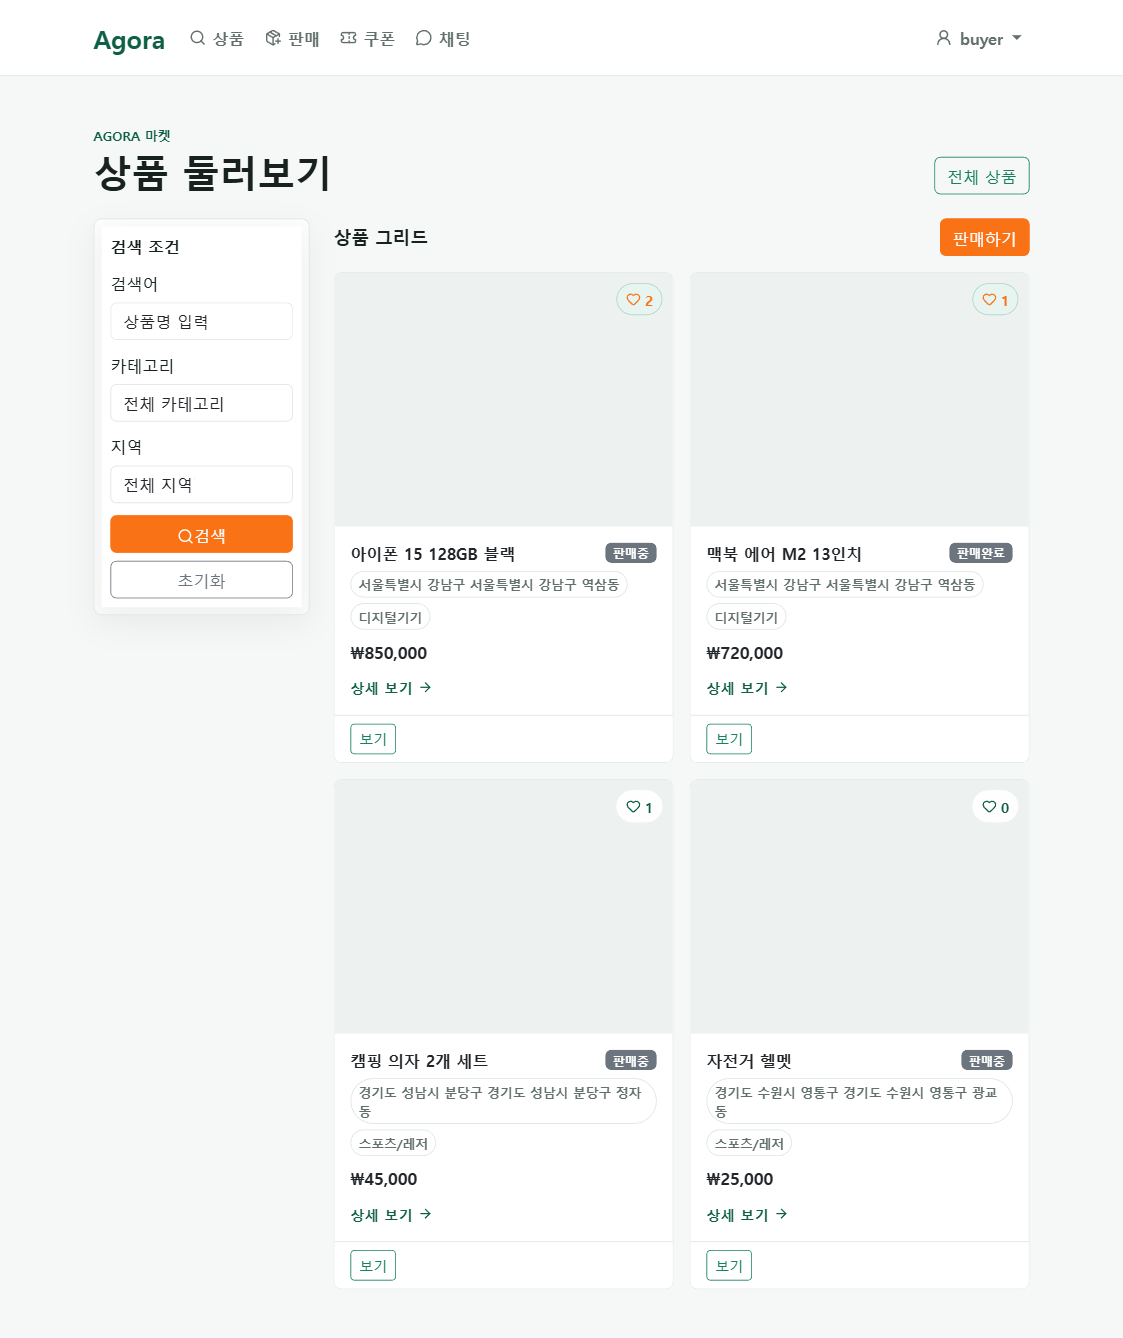
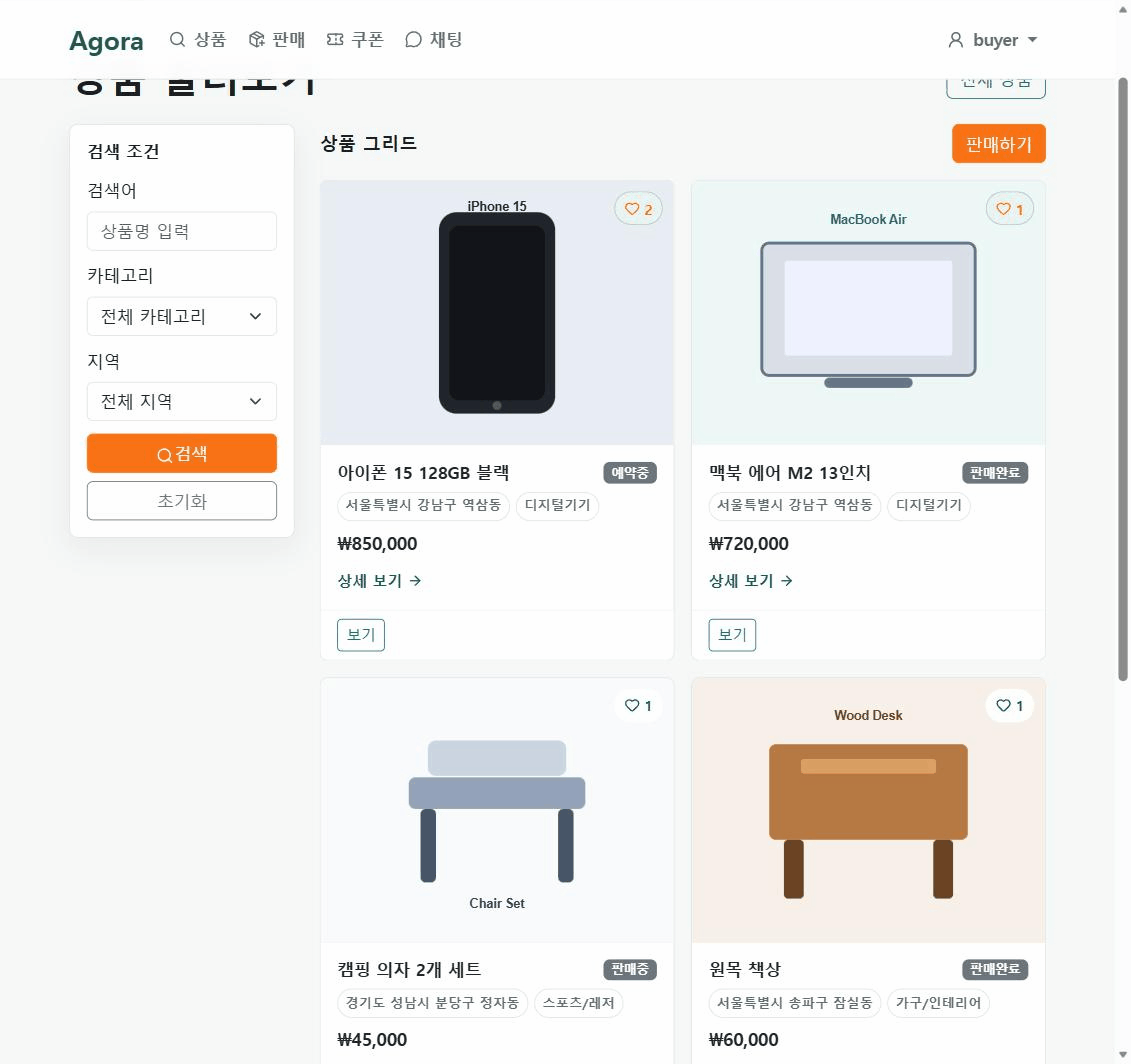
docs: README에 배포 정보·핵심 플로우 GIF·최신 스크린샷을 반영한다.
- 배포(AWS EC2+RDS+S3) 섹션과 CI/CD 흐름을 README에 추가하고, 데모 URL이 상시 운영이 아님을 명시한다.
- 채팅→네고→결제 핵심 플로우 GIF와 최신 화면(상품 목록/관심 지역 설정/거래 상세) 스크린샷으로 교체한다.
- 캐시 키 예시를 실제 ProductSearchCacheLoader 구현(10개 조건)에 맞게 수정하고, 인덱스 최적화에 실측 EXPLAIN 결과(BEFORE/AFTER)를 추가한다.
- docs/docker-cicd.md의 AWS Path 설명을 실제 운영 상태(RDS/S3 적용 완료)에 맞게 갱신한다.

diff --git a/docs/docker-cicd.md b/docs/docker-cicd.md
@@ -76,15 +76,15 @@ Backend:  http://localhost:8080
 
 ## AWS Path
 
-For an EC2-based first deployment:
+For an EC2-based deployment:
 
 1. Install Docker and Docker Compose on EC2.
 2. Copy or create the production `.env` on the server.
 3. Set `PUBLIC_API_BASE_URL` to the public backend URL.
 4. Run `docker compose -f docker-compose.prod.yml up --build -d`.
-5. Add GitHub Actions deployment after image registry and SSH secrets are decided.
+5. GitHub Actions CD (`.github/workflows/deploy.yml`) is already wired up: on every `dev` push it SSHes into EC2, does `git fetch` + `reset --hard`, then `docker compose up -d --build`.
 
-For a later production-grade setup, move MySQL to RDS, Redis to ElastiCache, images to ECR, and frontend static assets to S3 + CloudFront.
+MySQL already runs on a separate AWS RDS instance instead of the `mysql` service above (see [Region Seed Data](#region-seed-data-one-time-manual) below for how to reach it). Remaining production-grade improvements not yet done: Redis on ElastiCache, Docker images on ECR, and frontend static assets behind S3 + CloudFront.
 
 ## Region Seed Data (One-Time, Manual)
 
